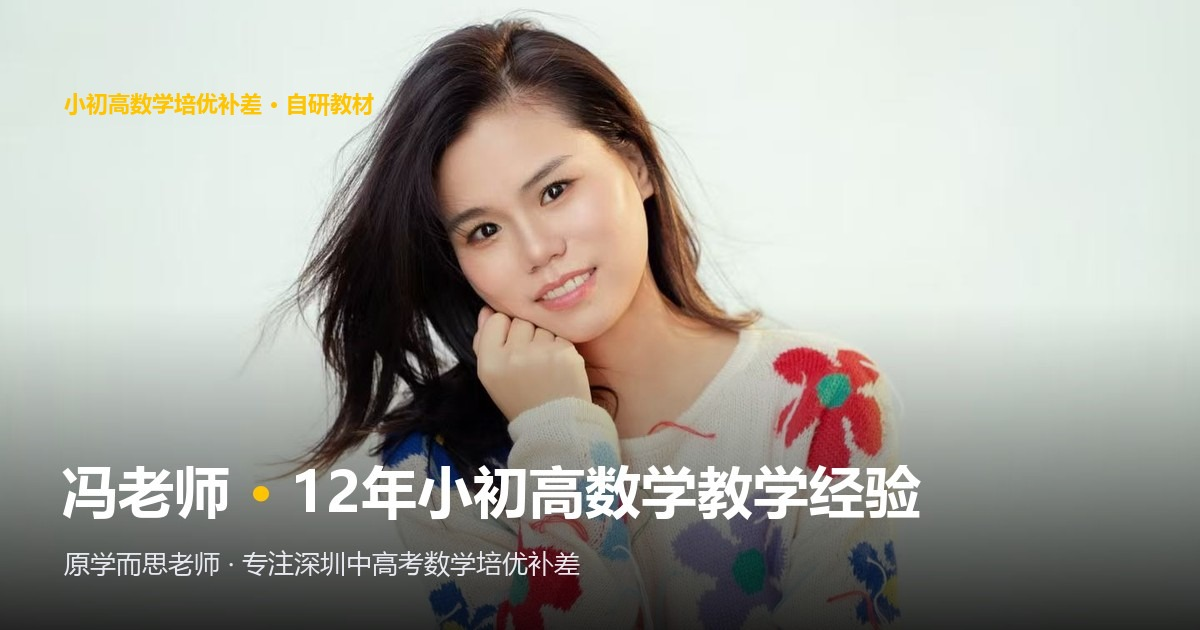
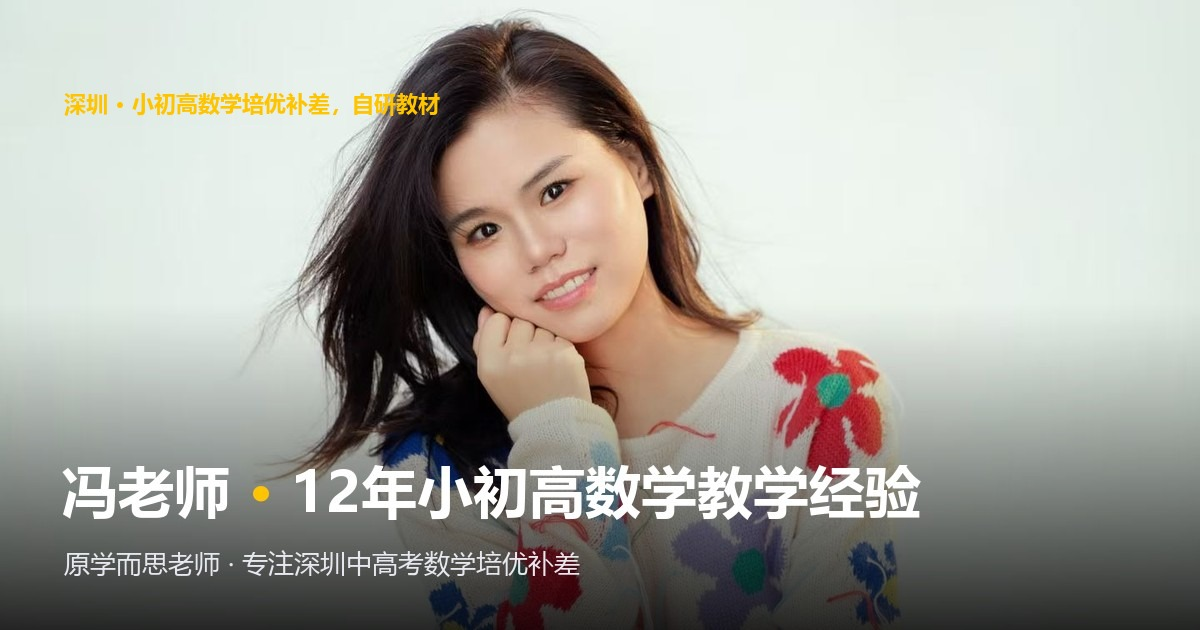
fix: 定位语补回「深圳」前缀（首页徽章 + 关于我卡片 + og 封面）

Changed region(s): [[0.0308, 0.1206, 0.37, 0.181]]

diff --git a/index.html b/index.html
@@ -11,7 +11,7 @@
 
   <meta property="og:title" content="冯老师 · 深圳小初高数学培优" />
   <meta property="og:description" content="原学而思数学老师，多年小初高数学教学经验，专注深圳中高考数学培优补差。" />
-  <meta property="og:image" content="https://fengyan-edu.github.io/fengyan-edu-v2/assets/og-cover.jpg?v=2" />
+  <meta property="og:image" content="https://fengyan-edu.github.io/fengyan-edu-v2/assets/og-cover.jpg?v=3" />
   <meta property="og:image:width" content="1200" />
   <meta property="og:image:height" content="630" />
   <meta property="og:url" content="https://fengyan-edu.github.io/fengyan-edu-v2/" />
@@ -21,7 +21,7 @@
   <meta name="twitter:card" content="summary_large_image" />
   <meta name="twitter:title" content="冯老师 · 深圳小初高数学培优" />
   <meta name="twitter:description" content="原学而思数学老师，多年小初高数学教学经验，专注深圳中高考数学培优补差。" />
-  <meta name="twitter:image" content="https://fengyan-edu.github.io/fengyan-edu-v2/assets/og-cover.jpg?v=2" />
+  <meta name="twitter:image" content="https://fengyan-edu.github.io/fengyan-edu-v2/assets/og-cover.jpg?v=3" />
 
   <script type="application/ld+json">
   {
@@ -2266,7 +2266,7 @@
       <div class="hero-content">
         <div class="hero-badge">
           <span class="dot"></span>
-          小初高数学培优补差，自研教材
+          深圳 · 小初高数学培优补差，自研教材
         </div>
         <h1>冯<span>老师</span></h1>
         <p class="hero-title-sub">原学而思数学老师 · <span class="auto-year" data-auto-year="career">12</span>年一线教学经验</p>
@@ -2363,7 +2363,7 @@
             </picture>
           </div>
           <div class="poster-title">
-            <div class="poster-label">小初高数学培优补差，自研教材</div>
+            <div class="poster-label">深圳 · 小初高数学培优补差，自研教材</div>
             <h2>冯老师</h2>
             <p class="poster-role">原学而思数学老师 · <span class="auto-year" data-auto-year="career">12</span>年一线教学经验</p>
             <div class="poster-tags">
